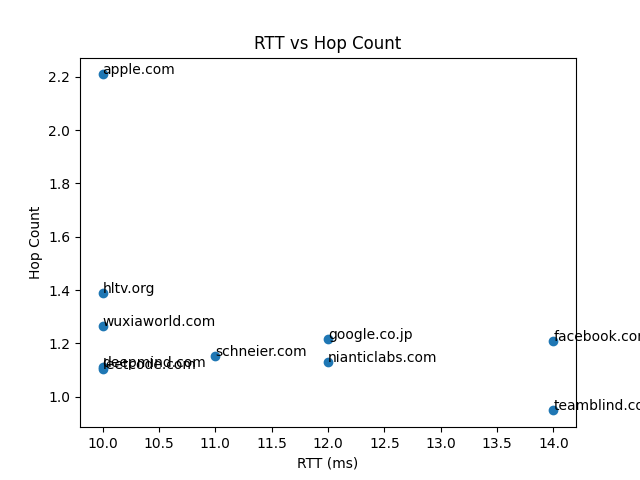
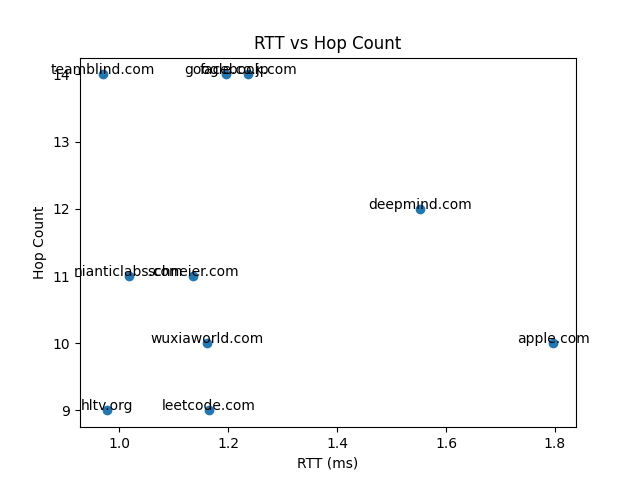
update plot code

diff --git a/distMeasurement.py b/distMeasurement.py
@@ -106,9 +106,9 @@ def run():
 
     #create tuples of RTTs to coresponding Hop Counts
     for key in hops_info.keys():        
-        tup = (hops_info[key], RTT_info[key])
+        tup = (RTT_info[key], hops_info[key])
         points.append(tup)
-        plt.annotate(key, tup)
+        plt.annotate(key, tup, ha='center')
         
     #plot points
     plt.scatter(*zip(*points))
